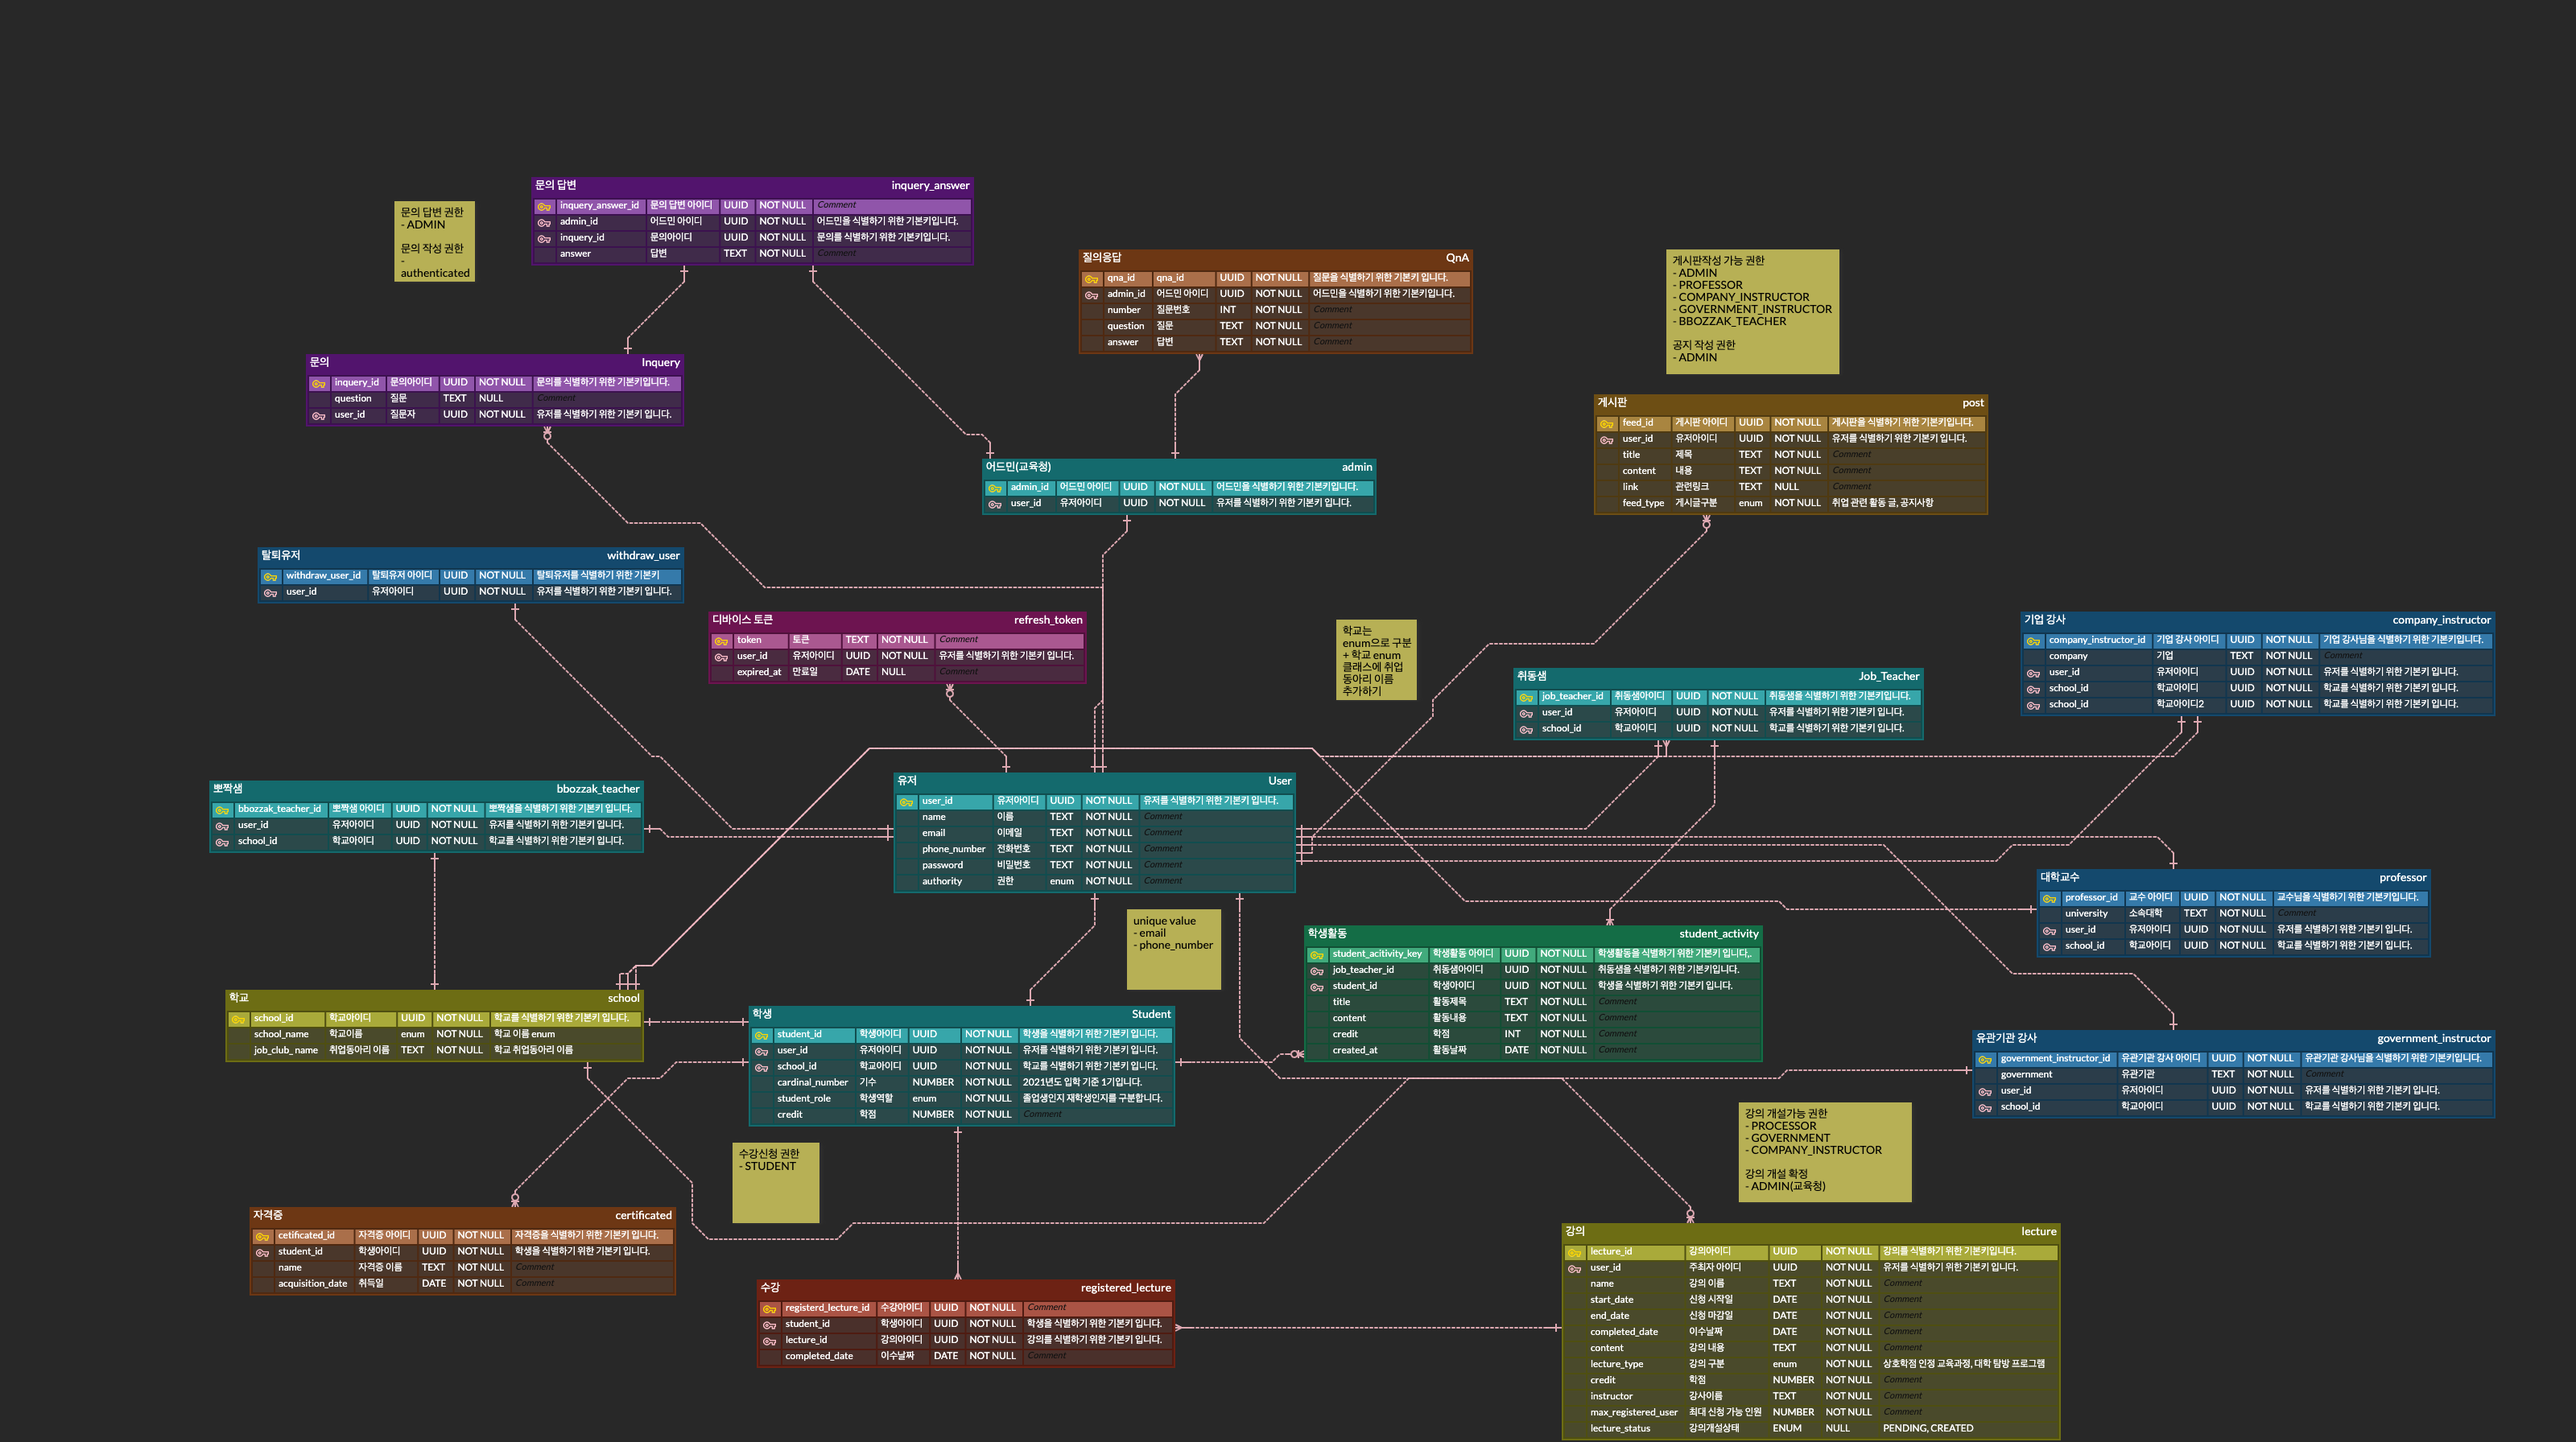
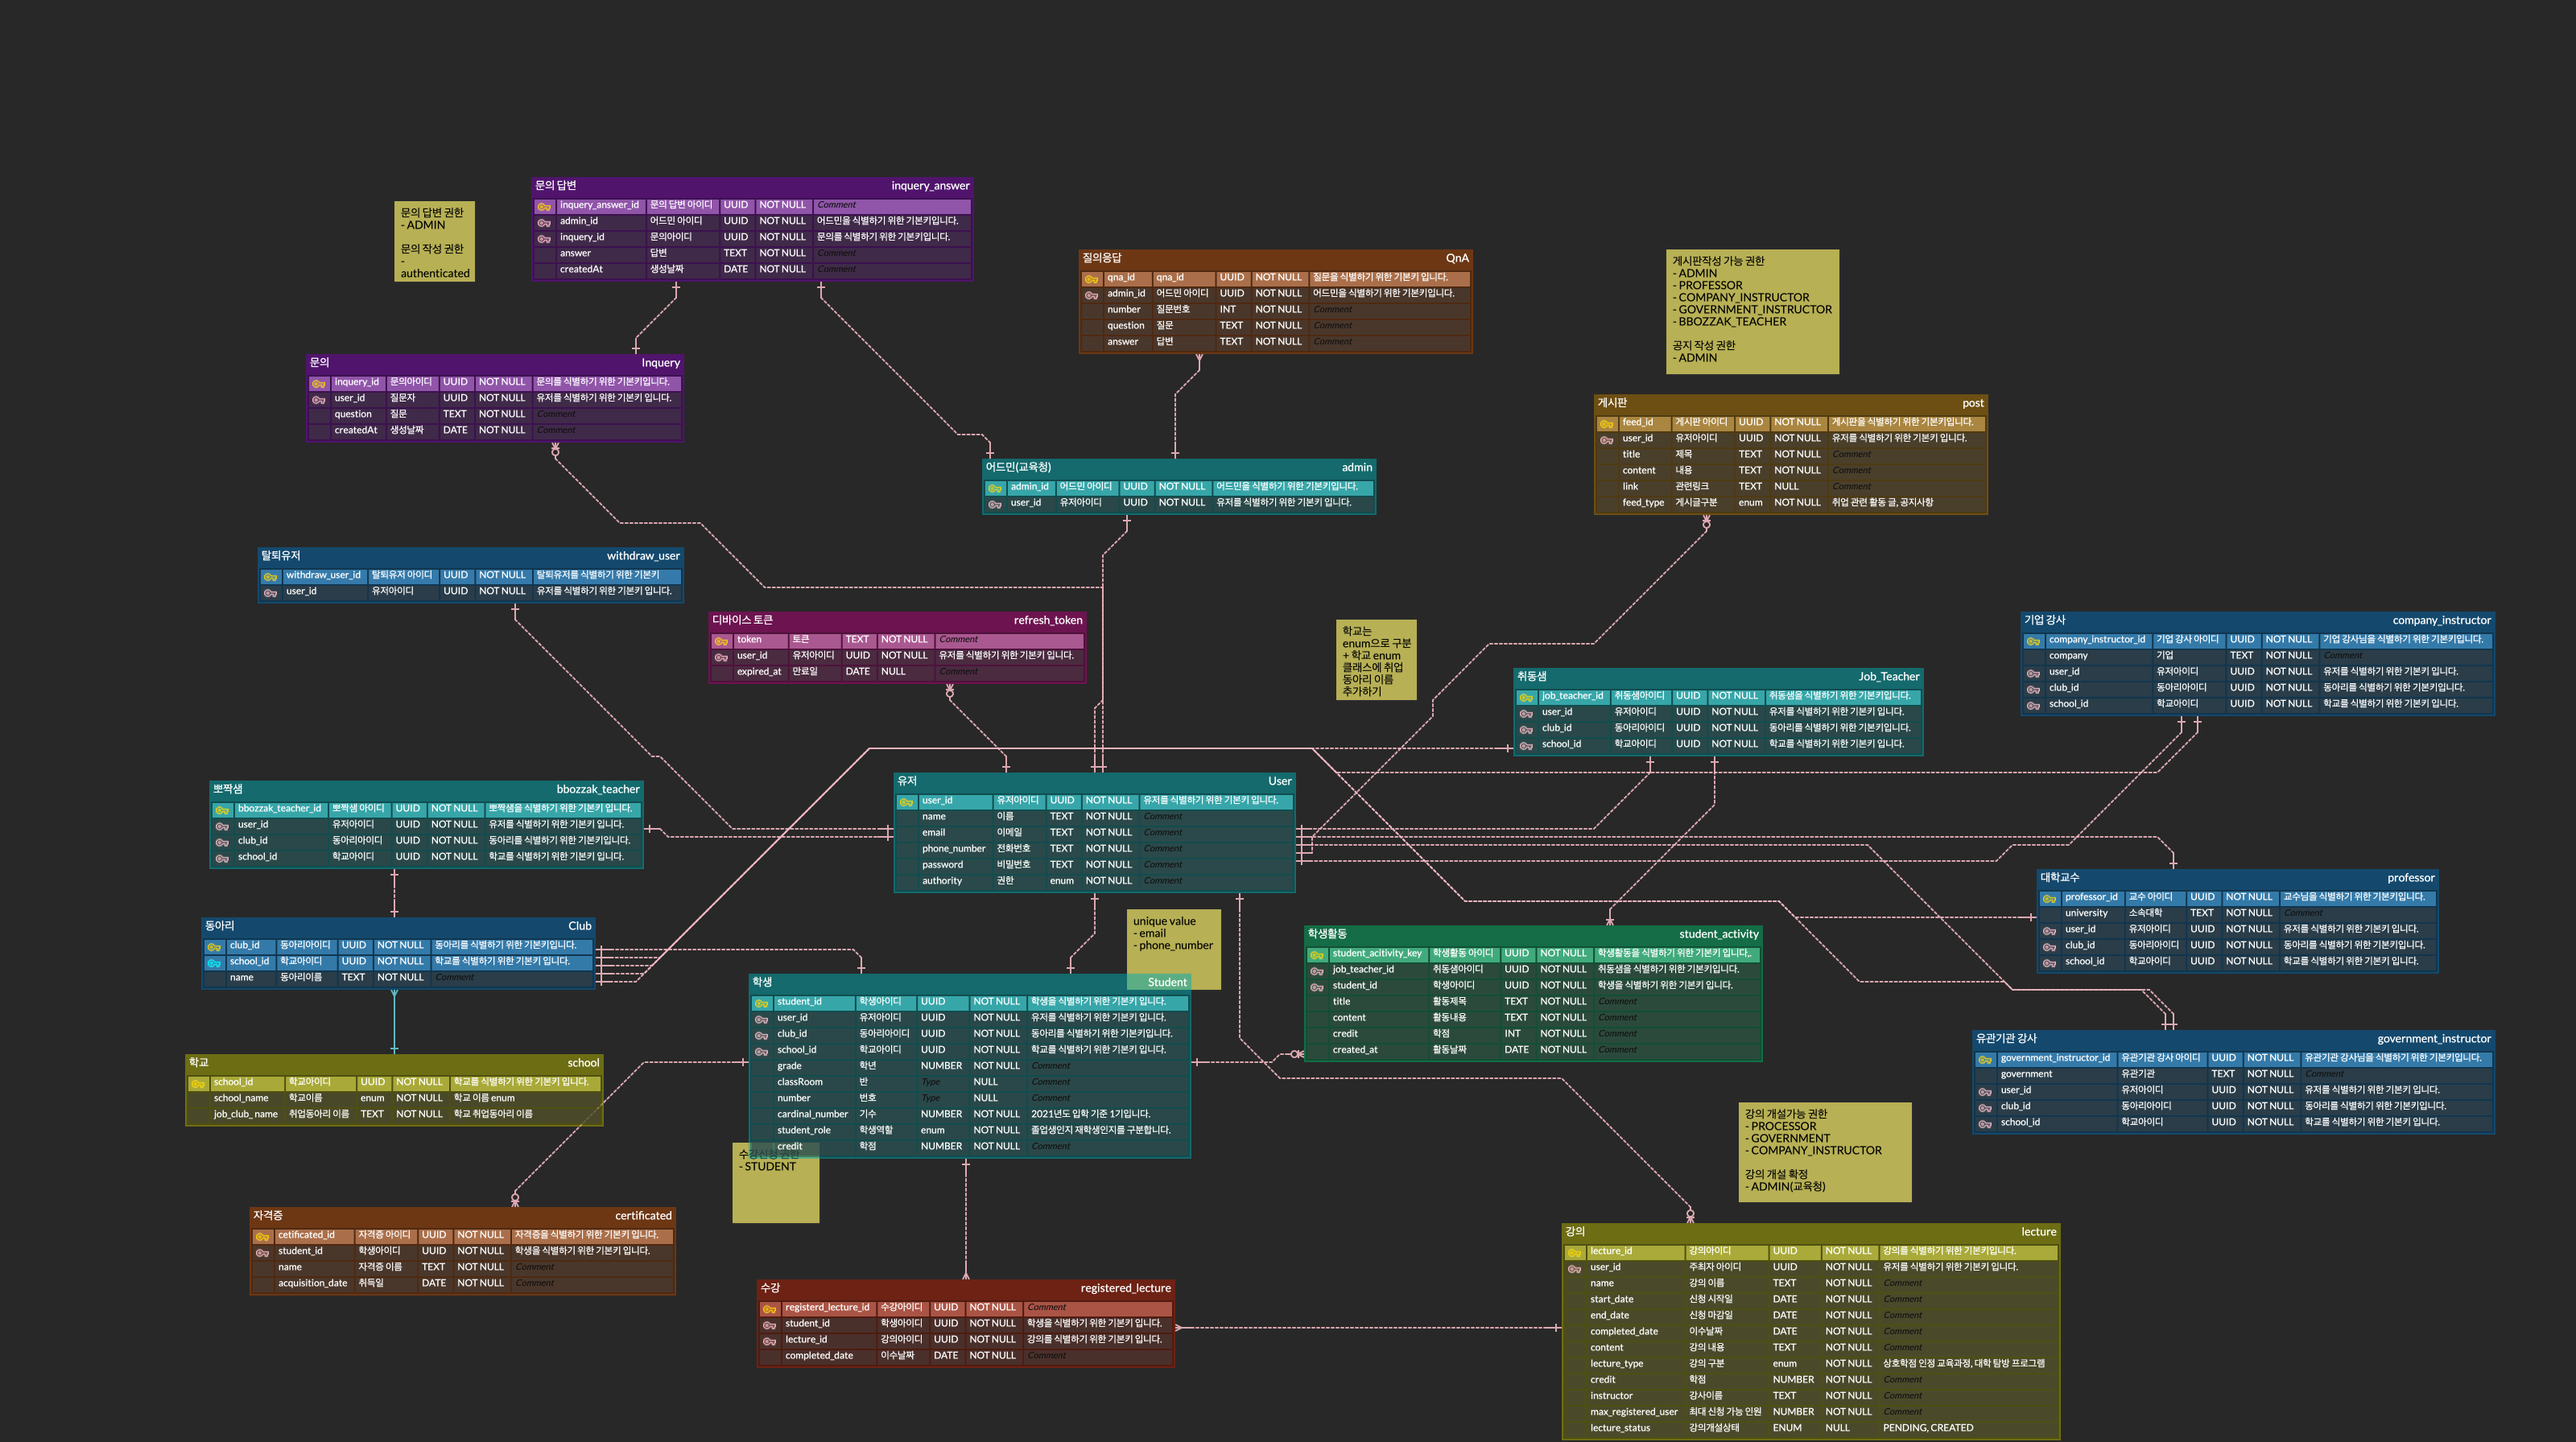
update :: erd 찐 최종

diff --git a/bitgouel-domain/src/main/kotlin/domain/student/model/Student.kt b/bitgouel-domain/src/main/kotlin/domain/student/model/Student.kt
@@ -1,0 +1,50 @@
+package domain.student.model
+
+import common.entity.BaseUUIDEntity
+import domain.school.model.School
+import domain.student.enums.StudentRole
+import domain.user.model.User
+import javax.persistence.CascadeType
+import javax.persistence.Column
+import javax.persistence.Entity
+import javax.persistence.EnumType
+import javax.persistence.Enumerated
+import javax.persistence.FetchType
+import javax.persistence.JoinColumn
+import javax.persistence.ManyToOne
+import javax.persistence.OneToOne
+import java.util.UUID
+
+@Entity
+class Student(
+
+    override val id: UUID,
+
+    @OneToOne(fetch = FetchType.LAZY, cascade = [CascadeType.MERGE])
+    @JoinColumn(name = "user_id", columnDefinition = "BINARY(16)", nullable = false)
+    val user: User?,
+
+    @ManyToOne(fetch = FetchType.LAZY)
+    @JoinColumn(name = "school_id", columnDefinition = "BINARAY(16)", nullable = false)
+    val school: School,
+
+    @Column(columnDefinition = "TINYINT UNSIGNED", nullable = false)
+    val grade: Int,
+
+    @Column(name = "class_room", columnDefinition = "TINYINT UNSIGNED", nullable = false)
+    val classRoom: Int,
+
+    @Column(columnDefinition = "TINYINT UNSIGNED", nullable = false)
+    val number: Int,
+
+    @Column(columnDefinition = "TINYINT UNSIGNED", nullable = false)
+    val cardinalNumber: Int,
+
+    @Column(columnDefinition = "INT", nullable = false)
+    val credit: Int,
+
+    @Enumerated(EnumType.STRING)
+    @Column(columnDefinition = "VARCHAR(10)", nullable = false)
+    val studentRole: StudentRole
+
+) : BaseUUIDEntity(id)

diff --git a/bitgouel-domain/src/main/kotlin/domain/school/enums/SchoolConstant.kt b/bitgouel-domain/src/main/kotlin/domain/school/enums/SchoolConstant.kt
@@ -1,0 +1,22 @@
+package domain.school.enums
+
+enum class SchoolConstant(
+    val schoolName: String
+) {
+
+    GWANGJU_TECHNICAL_HIGHSCHOOL("광주공업고등학교"),
+    KUMPA_TECHNICAL_HIGH_SCHOOL("금파공업고등학교"),
+    JEONNAM_TECHNICAL_HIGH_SCHOOL("전남공업고등학교"),
+    GWANGJU_GIRLS_COMMERCIAL_HIGH_SCHOOL("광주여자상업고등학교"),
+    JEONNAM_GIRLS_COMMERCIAL_HIGH_SCHOOL("전남여자상업고등학교"),
+    GWANGJU_NATURAL_SCIENCE_HIGH_SCHOOL("광주자연과학고등학교"),
+    GWANGJU_ELECTRONIC_TECHNICAL_HIGH_SCHOOL("광주전자공업고등학교"),
+    DONGIL_HIGH_SCHOOL_OF_FUTURE_SCIENCE_HIGH_SCHOOL("동일미래과학고등학교"),
+    SEOJIN_GIRLS_HIGH_SCHOOL("서진여자고등학교"),
+    SUNGUI_SCIENCE_TECHNOLOGY_HIGH_SCHOOL("숭의과학기술고등학교"),
+    SONGWON_GIRLS_COMMERCIAL_HIGH_SCHOOL("송원여자상업고등학교"),
+    GWANGJU_AUTOMATIC_EQUIPMENT_TECHNICAL_HIGH_SCHOOL("광주자동화설비마이스터고등학교"),
+    GWANGJU_SOFTWARE_MEISTER_HIGHSCHOOL("광주소프트웨어마이스터고등학교")
+    ;
+
+}

diff --git a/bitgouel-domain/src/main/kotlin/domain/teacher/model/Teacher.kt b/bitgouel-domain/src/main/kotlin/domain/teacher/model/Teacher.kt
@@ -1,0 +1,27 @@
+package domain.teacher.model
+
+import common.entity.BaseUUIDEntity
+import domain.school.model.School
+import domain.user.model.User
+import javax.persistence.CascadeType
+import javax.persistence.Entity
+import javax.persistence.FetchType
+import javax.persistence.JoinColumn
+import javax.persistence.ManyToOne
+import javax.persistence.OneToOne
+import java.util.UUID
+
+@Entity
+class Teacher(
+
+    override val id: UUID,
+
+    @OneToOne(fetch = FetchType.LAZY, cascade = [CascadeType.MERGE])
+    @JoinColumn(name = "user_id", columnDefinition = "BINARY(16)", nullable = false)
+    val user: User?,
+
+    @ManyToOne(fetch = FetchType.LAZY)
+    @JoinColumn(name = "school_id", columnDefinition = "BINARAY(16)", nullable = false)
+    val school: School
+
+) : BaseUUIDEntity(id)

diff --git a/bitgouel-domain/src/main/kotlin/domain/school/model/School.kt b/bitgouel-domain/src/main/kotlin/domain/school/model/School.kt
@@ -1,0 +1,16 @@
+package domain.school.model
+
+import common.entity.BaseUUIDEntity
+import javax.persistence.Entity
+import java.util.UUID
+
+@Entity
+class School(
+
+    override val id: UUID,
+
+    val name: String,
+
+    val jobClubName: String
+
+) : BaseUUIDEntity(id)

diff --git a/bitgouel-domain/src/main/kotlin/domain/student/repository/StudentRepository.kt b/bitgouel-domain/src/main/kotlin/domain/student/repository/StudentRepository.kt
@@ -1,0 +1,8 @@
+package domain.student.repository
+
+import domain.student.model.Student
+import org.springframework.data.jpa.repository.JpaRepository
+import java.util.UUID
+
+interface StudentRepository : JpaRepository<Student, UUID> {
+}

diff --git a/bitgouel-domain/src/main/kotlin/domain/auth/model/RefreshToken.kt b/bitgouel-domain/src/main/kotlin/domain/auth/model/RefreshToken.kt
@@ -1,0 +1,7 @@
+package domain.auth.model
+
+import org.springframework.data.redis.core.RedisHash
+
+@RedisHash("refresh_token")
+class RefreshToken {
+}

diff --git a/bitgouel-api/src/main/kotlin/bitgouel/team/msg/BitgouelApplication.kt b/bitgouel-api/src/main/kotlin/bitgouel/team/msg/BitgouelApplication.kt
@@ -8,6 +8,5 @@ class BitgouelApplication
 
 fun main(args: Array<String>) {
     runApplication<BitgouelApplication>(*args)
-
 }
 

diff --git a/bitgouel-domain/src/main/kotlin/domain/student/enums/StudentRole.kt b/bitgouel-domain/src/main/kotlin/domain/student/enums/StudentRole.kt
@@ -1,0 +1,5 @@
+package domain.student.enums
+
+enum class StudentRole {
+    GRADUATE, STUDENT
+}

diff --git a/bitgouel-domain/src/main/kotlin/domain/student/model/StudentActivity.kt b/bitgouel-domain/src/main/kotlin/domain/student/model/StudentActivity.kt
@@ -1,0 +1,6 @@
+package domain.student.model
+
+class StudentActivity(
+
+) {
+}
